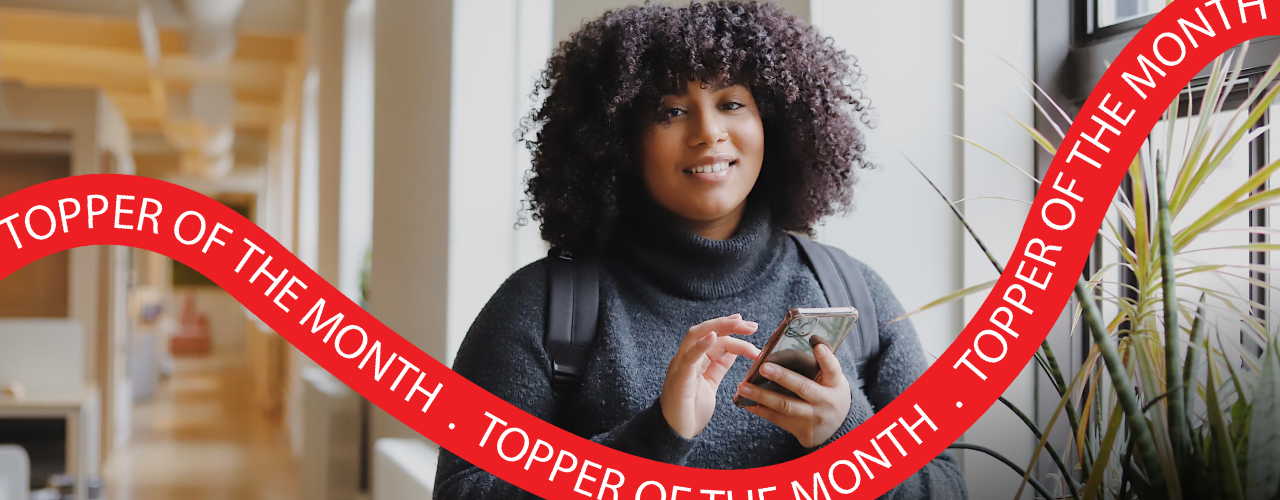
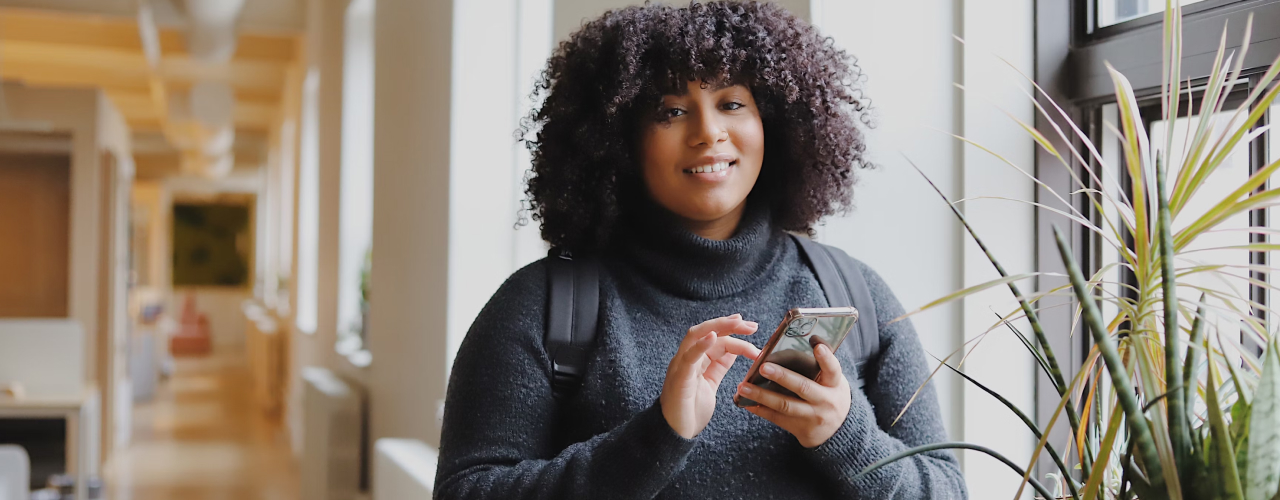
performmers

Changed region(s): [[0.0, 0.0, 1.0, 1.0]]

diff --git a/src/components/filterableGallery/style.module.scss b/src/components/filterableGallery/style.module.scss
@@ -181,6 +181,7 @@
             display: flex;
             justify-content: space-between;
             gap: 10px;
+
             .button {
                 font-weight: 600;
                 font-size: 16px;
@@ -199,6 +200,7 @@
                     color: #FFFFFF;
                 }
             }
+
             .scholarshiAmout {
                 font-weight: 500;
                 font-size: 16px;
@@ -215,7 +217,7 @@
                     font-family: Arial, Helvetica, sans-serif;
                 }
 
-              
+
             }
         }
     }
@@ -254,3 +256,130 @@
         color: #fff;
     }
 }
+@media (min-width: 641px) and (max-width: 960px) {
+    .gallerySection .grid {
+        grid-template-columns: repeat(1, minmax(300px, 1fr));
+        row-gap: 16px;
+        column-gap: 16px;
+    }
+}
+
+@media (width <=640px) {            
+    .gallerySection {
+        .filterButtons {
+            flex-wrap: nowrap;
+            justify-content: flex-start;
+            overflow-y: auto;
+            margin-bottom: 30px;
+            scrollbar-width: none;
+            /* For Firefox */
+            -ms-overflow-style: none;
+            /* For Internet Explorer and Edge */
+      
+            &::-webkit-scrollbar {
+              display: none;
+              /* For Chrome, Safari, and Opera */
+            }
+            button {
+                min-width: max-content;
+            }
+        }
+    }
+    .grid {
+        grid-template-columns: repeat(1, minmax(300px, 1fr));
+        row-gap: 16px;
+        column-gap: 16px;
+    }
+
+    .card {
+        border: 2px solid #000000;
+        border-radius: 16px;
+        flex-direction: column;
+        gap: 0;
+
+        .studentImg {
+            min-height: 196px;
+            max-height: 300px;
+            width: 100%;
+            img {
+                object-position: top;
+            }
+        }
+
+        .studentcontent {
+            margin: 23px;
+
+            h3 {
+                font-weight: 700;
+                font-style: italic;
+                font-size: 24px;
+                line-height: 22px;
+                letter-spacing: 0%;
+                text-transform: uppercase;
+                color: #090909;
+            }
+
+            .content {
+                gap: 4px;
+            }
+
+            .tags {
+                gap: 4px;
+                margin-bottom: 24px;
+            }
+
+            .action {
+                margin-bottom: 0;
+            }
+        }
+
+    }
+
+    .cardScholarship {
+        display: flex;
+        height: auto;
+        padding: 40px 25px;
+        .cardScholarshipContent {
+            width: 100%;
+            h3 {
+                font-size: 32px;
+                line-height: 36px;
+                margin-bottom: 32px;
+            }
+    
+            .cardScholarshiAmout {
+                width: 100%;
+                display: flex;
+                flex-direction: column;
+                gap: 37px;
+    
+                .button {
+                    max-width: max-content;
+                    height: 45px;
+                    cursor: pointer;
+                }
+    
+                .scholarshiAmout {
+                    font-weight: 500;
+                    font-size: 16px;
+                    line-height: 100%;
+                    letter-spacing: 2%;
+                    color: #FFFFFF;
+    
+                    span {
+                        font-weight: 900;
+                        font-size: 32px;
+                        line-height: 100%;
+                        letter-spacing: 0%;
+                        color: #FFFFFF;
+                        font-family: Arial, Helvetica, sans-serif;
+                    }
+    
+    
+                }
+            }
+        }
+    }
+
+}
+

diff --git a/src/components/topperOfMonthSlider/style.module.scss b/src/components/topperOfMonthSlider/style.module.scss
@@ -3,16 +3,25 @@
     margin-bottom: 140px;
     border-radius: 20px;
     overflow: hidden;
+    width: 100%;
 
     img {
         border-radius: 20px;
         width: 100%;
+        object-fit: cover;
     }
 }
 
+.monthBelt {
+    position: absolute;
+    z-index: 1;
+    top: 0;
+    left: 0;
+}
 
 .sliderWrapper {
     position: relative;
+    overflow: hidden;
 
     &:hover {
         .sliderNavigation {
@@ -40,12 +49,20 @@
 
 .imageSlider {
     position: relative;
-
+    overflow: hidden;
     .viewResume {
         position: absolute;
-        bottom: 33px;
-        right: 45px;
-
+            bottom: 33px;
+            right: 45px;
+            &::after {
+                content: "";
+                width: 339px;
+                height: 273px;
+                position: absolute;
+                bottom: -40px;
+                right: -46px;
+                background: linear-gradient(334.64deg, #000000 -2.08%, rgba(0, 0, 0, 0) 64.34%);
+            }
         a {
             font-weight: 600;
             font-size: 14px;
@@ -54,6 +71,8 @@
             display: flex;
             align-items: center;
             gap: 12px;
+            z-index: 11;
+    position: relative;
         }
 
         i {
@@ -76,6 +95,7 @@
         flex-direction: column;
         align-items: end;
         justify-content: end;
+        z-index: 11;
         .name {
             background: #FFEE6E;
             box-shadow: 6px 6px 0px 0px #000000;
@@ -108,6 +128,71 @@
             display: flex;
             height: 35px;
             align-items: center;
+        }
+    }
+}
+
+@media (width <=991px) {
+    .sliderWrapper {
+        margin-bottom: 60px;
+
+        img {
+            border-radius: 20px;
+            width: 100%;
+            height: 380px;
+        }
+    }
+
+    .imageSlider {
+        position: relative;
+
+        .viewResume {
+            position: absolute;
+            bottom: 33px;
+            right: 45px;
+
+            a {
+                font-weight: 600;
+                font-size: 14px;
+                line-height: 100%;
+                color: #FFFFFF;
+                display: flex;
+                align-items: center;
+                gap: 12px;
+            }
+
+            i {
+                min-width: 40px;
+                min-height: 40px;
+                background-color: #FFFFFF;
+                display: flex;
+                align-items: center;
+                max-width: fit-content;
+                justify-content: center;
+                border-radius: 50px;
+            }
+        }
+
+        .slideContent {
+            position: absolute;
+            bottom: 30%;
+            right: 10%;
+            display: flex;
+            flex-direction: column;
+            align-items: end;
+            justify-content: end;
+
+            .name {
+                font-size: 18px;
+                min-height: 47px;
+                display: flex;
+                align-items: center;
+            }
+
+            .course {
+                font-size: 14px;
+                border: 2px solid #000000;
+            }
         }
     }
 }

diff --git a/src/components/topperOfMonthSlider/index.tsx b/src/components/topperOfMonthSlider/index.tsx
@@ -84,6 +84,15 @@ const TopperOfMonthSlider = () => {
                           height={500}
                           className={styles.sliderImage}
                         />
+                        <div className={styles.monthBelt}>
+                          <Image
+                            src="/images/month-slider/month-belt.svg"
+                            alt={slide.name}
+                            width={1411.66}
+                            height={533.8}
+                            className={styles.sliderImage}
+                          />
+                        </div>
                         <div className={styles.slideContent}>
                           <span className={styles.name}>{slide.name}</span>
                           <span className={styles.course}>{slide.course}</span>
